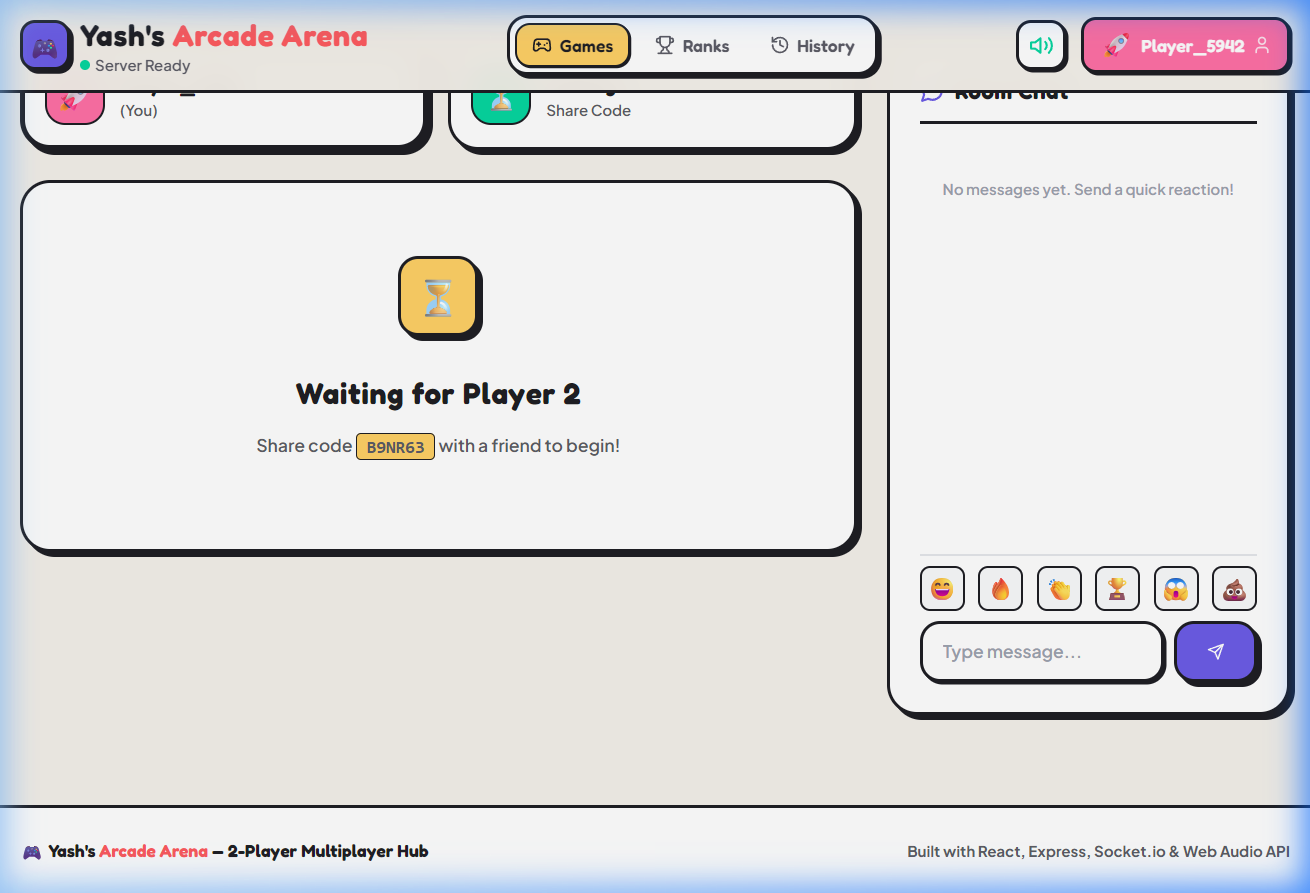
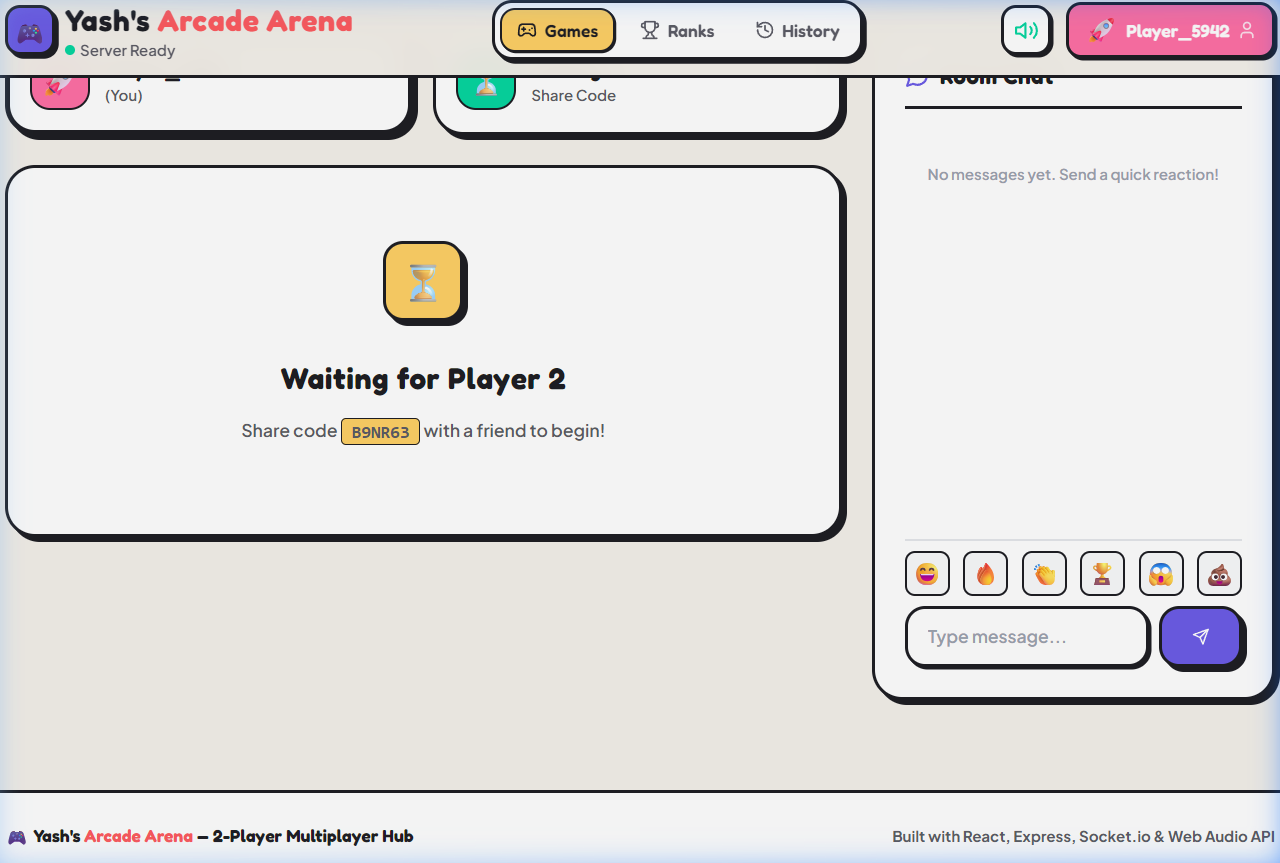
docs: remove voice chat from main features and crop screenshots

Changed region(s): [[0.0, 0.0, 1.0, 1.0], [0.1875, 0.4218, 0.4688, 0.5122], [0.2812, 0.2711, 0.375, 0.3917]]

diff --git a/README.md b/README.md
@@ -1,6 +1,6 @@
 # 🎮 Yash's Arcade Arena — Real-Time Multiplayer Games Platform
 
-Arcade Arena is a feature-rich, real-time multiplayer 2-player gaming hub. Players can join game lobbies, match up with others, chat, track scores across multiple games, and talk live using built-in peer-to-peer voice chat. 
+Arcade Arena is a feature-rich, real-time multiplayer 2-player gaming hub. Players can join game lobbies, match up with others, chat, and track scores across multiple games.
 
 **This project was created to learn and improve my web development and engineering skills**, specifically focusing on real-time WebSockets communication, WebRTC media streaming, and scalable database integrations.
 
@@ -14,7 +14,7 @@ Arcade Arena is a feature-rich, real-time multiplayer 2-player gaming hub. Playe
 ### 🏆 Global Leaderboard & Match History
 ![Leaderboard](./screenshots/leaderboard.png)
 
-### 🕹️ Real-Time Game Room & WebRTC Voice Chat
+### 🕹️ Real-Time Game Room
 ![Game Room](./screenshots/gameroom.png)
 
 ---
@@ -28,25 +28,22 @@ Arcade Arena is a feature-rich, real-time multiplayer 2-player gaming hub. Playe
    - **Tic-Tac-Toe**: Classic 3-in-a-row board game.
    - **Rock Paper Scissors**: Quick action game with animated results.
 
-2. **P2P Voice Chat (WebRTC)**:
-   - Built-in, zero-dependency **Voice Chat** using WebRTC peer-to-peer audio channels.
-   - Dynamic microphone permissions, ICE candidate buffering to handle race connections, and responsive mute/unmute visual states.
-   - Compact visual layout tailored to scale beautifully for mobile browser screens.
-
-3. **In-Room Game Switching & Multi-Game Scoreboards**:
+2. **In-Room Game Switching & Multi-Game Scoreboards**:
    - Play another game without creating a new room. Switch games mid-session and watch the board reload instantly.
    - A persistent **Championship Scoreboard** banner tracks overall wins, losses, and draws for players during their session.
 
-4. **Lobby & Matchmaking System**:
+3. **Lobby & Matchmaking System**:
    - **Create / Join Rooms**: Create a room with a custom 6-digit code.
    - **Quick Match**: A WebSocket matchmaking queue that pairs random players instantly.
    - **Interactive Rematches**: Real-time status prompts showing if the opponent wants a rematch, guiding interaction with pulsing Accept button triggers.
    - **In-Game Chat**: Share messages and custom emojis in the room.
 
-5. **Authentication & User Profile Customization**:
+4. **Authentication & User Profile Customization**:
    - Guest profile generator with random names and retro avatar selections.
    - Seamless **Google OAuth 2.0** login.
    - MongoDB-backed Global Rankings, Leaderboard statistics, and match history logs.
+
+*Note: P2P Voice Chat is also integrated experimentally inside rooms for connected players.*
 
 ---
 